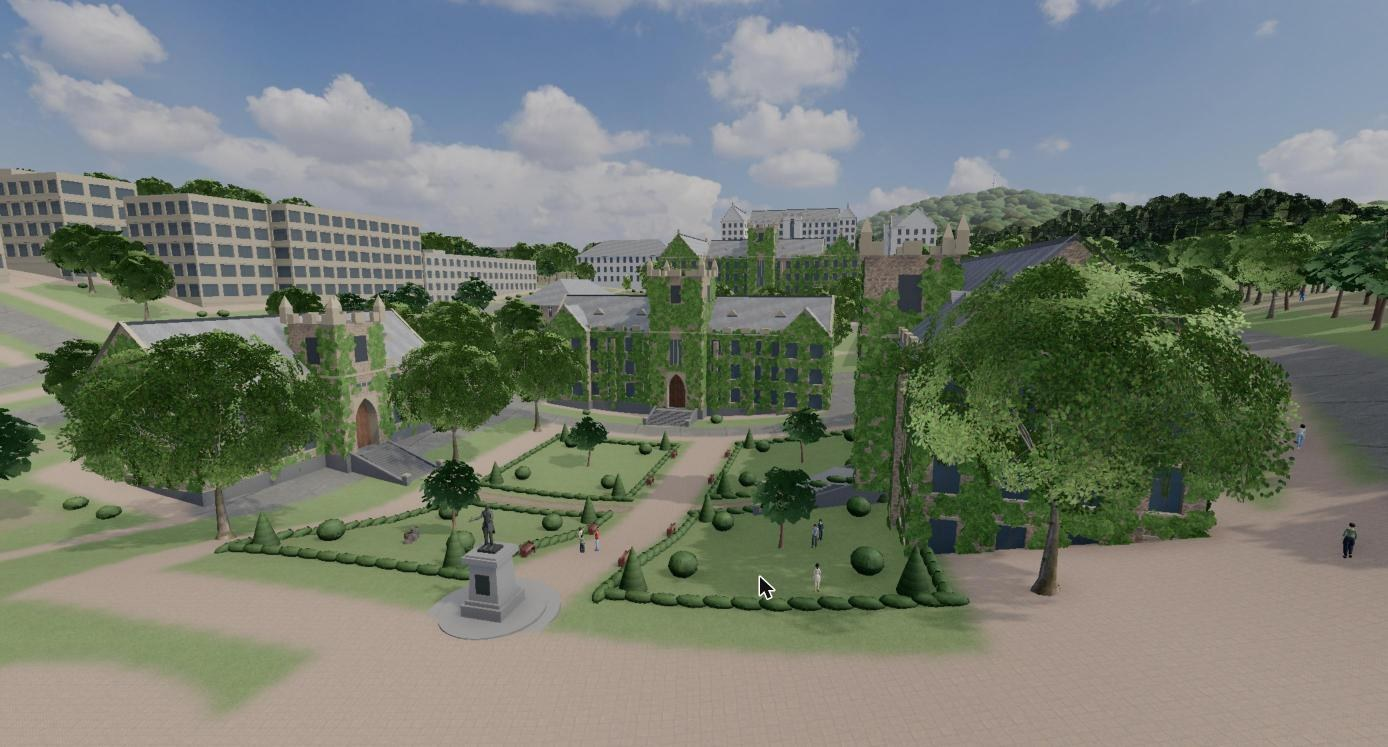
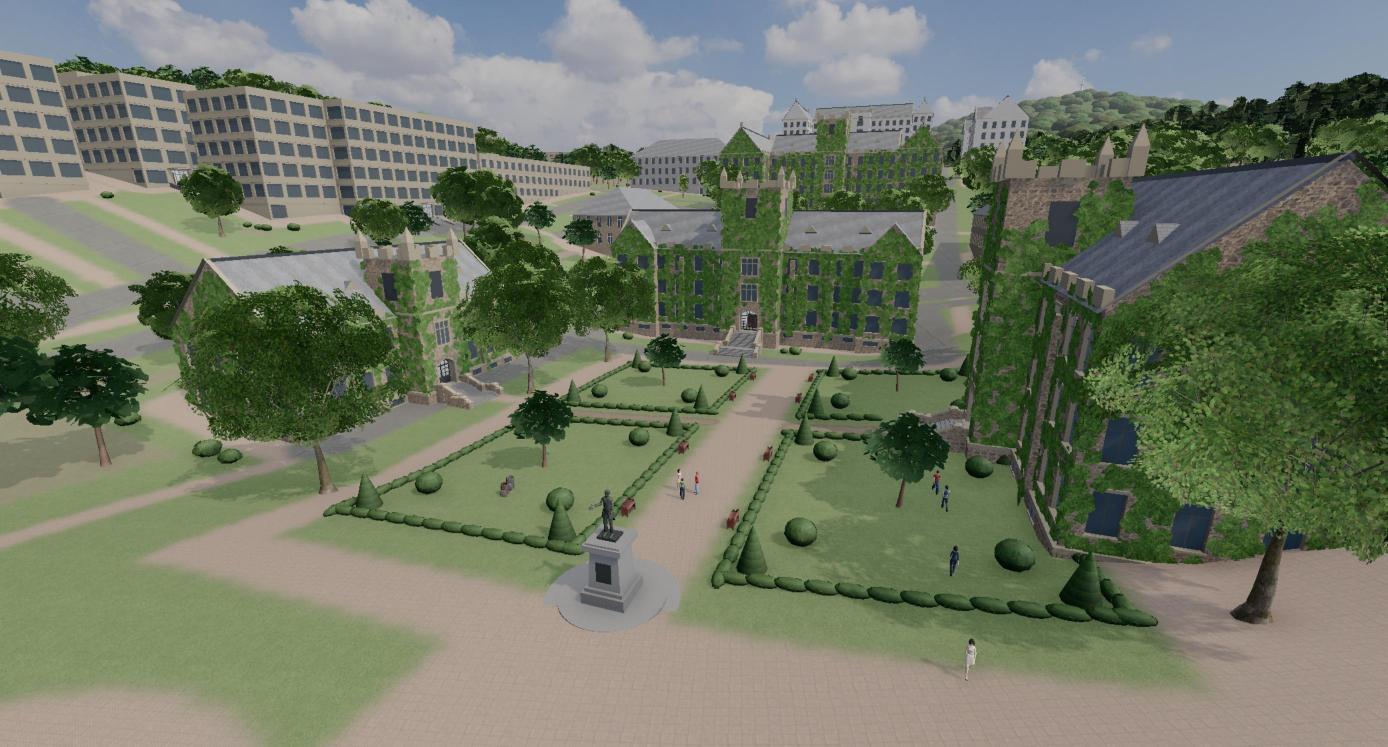
Link the three site URLs in the 1997 시간 여행 intro, move each section's site link below its description, and retake campus walk captures from the latest game

diff --git a/src/content/memories.md b/src/content/memories.md
@@ -1,10 +1,12 @@
 # 1997 시간 여행
 
-그 시절의 PC통신, 합격자 명단, 캠퍼스를 다시 만나볼 수 있는 세 곳을 소개합니다.
+그 시절을 다시 만나볼 수 있는 세 곳을 소개합니다.
+
+* PC통신 게시판에 올라온 모집 요강 : <a href="http://atdt.benelog.net/" target="_blank">http://atdt.benelog.net/</a>
+* 신문에 실린 합격자 명단 : <a href="https://yonsei-unions-archive.vercel.app/" target="_blank">https://yonsei-unions-archive.vercel.app/</a>
+* 신촌 캠퍼스 산책 : <a href="https://yonsei-1997.benelog.net/" target="_blank">https://yonsei-1997.benelog.net/</a>
 
 ## 1. 1997년 모집요강
-
-<div class="memory-link"><a href="http://atdt.benelog.net/" target="_blank">http://atdt.benelog.net/</a></div>
 
 1994~1997년 하이텔·천리안·나우누리 게시판에 올라왔던 글 119편을 모아 둔 곳입니다. 옛 통신 프로그램 '이야기 5.3'의 화면을 그대로 재현해, 접속부터 게시판 탐색까지 그 시절 방식으로 체험할 수 있습니다.
 
@@ -29,9 +31,10 @@
 </li>
 </ol>
 
-## 2. 1997년 합격자 명단
 
-<div class="memory-link"><a href="https://yonsei-unions-archive.vercel.app/" target="_blank">https://yonsei-unions-archive.vercel.app/</a></div>
+<div class="memory-link"><a href="http://atdt.benelog.net/" target="_blank">http://atdt.benelog.net/</a></div>
+
+## 2. 1997년 합격자 명단
 
 97학번 김관수 동문이 오랜 세월 보관해 온 신문 기록을 이중윤 동문이 디지털 자료로 복원한 아카이브입니다. 당시 한국대학신문에 실린 97학년도 합격자 명단을 쪽별로 넘겨 보고, 이름이나 수험번호로 검색할 수 있습니다.
 
@@ -54,9 +57,10 @@
 
 * 복원된 글자는 OCR 자료라 오탈자가 있을 수 있으며, 오류나 수정 사항은 안내된 이메일로 알려주시면 됩니다.
 
-## 3. 1997년 신촌 캠퍼스 산책
 
-<div class="memory-link"><a href="https://yonsei-1997.benelog.net/" target="_blank">https://yonsei-1997.benelog.net/</a></div>
+<div class="memory-link"><a href="https://yonsei-unions-archive.vercel.app/" target="_blank">https://yonsei-unions-archive.vercel.app/</a></div>
+
+## 3. 1997년 신촌 캠퍼스 산책
 
 <img class="memory-shot" src="memory-campus1997-1.jpg" alt="1997년 5월 백양로를 내려다본 실제 사진">
 
@@ -71,3 +75,6 @@
 * 4월 벚꽃, 5월 신록, 10월 은행잎 중 계절을 고를 수 있고, 10월에는 연고전 응원 현수막이 걸립니다.
 * 하늘에서 내려다보는 '캠퍼스 둘러보기(버드 아이뷰)'를 지원합니다.
 * PC에서는 방향키(또는 W·A·S·D)로 걷고, 모바일에서는 화면의 조이스틱으로 움직입니다.
+
+<div class="memory-link"><a href="https://yonsei-1997.benelog.net/" target="_blank">https://yonsei-1997.benelog.net/</a></div>
+
